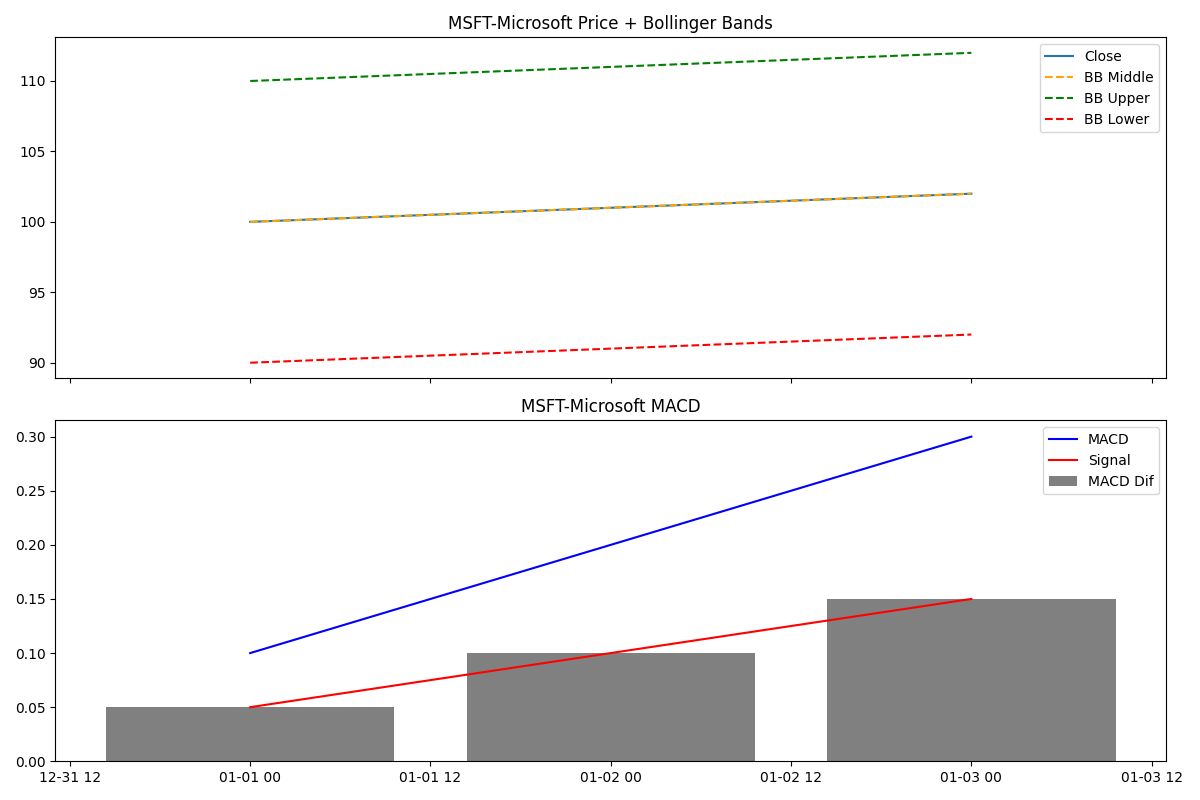
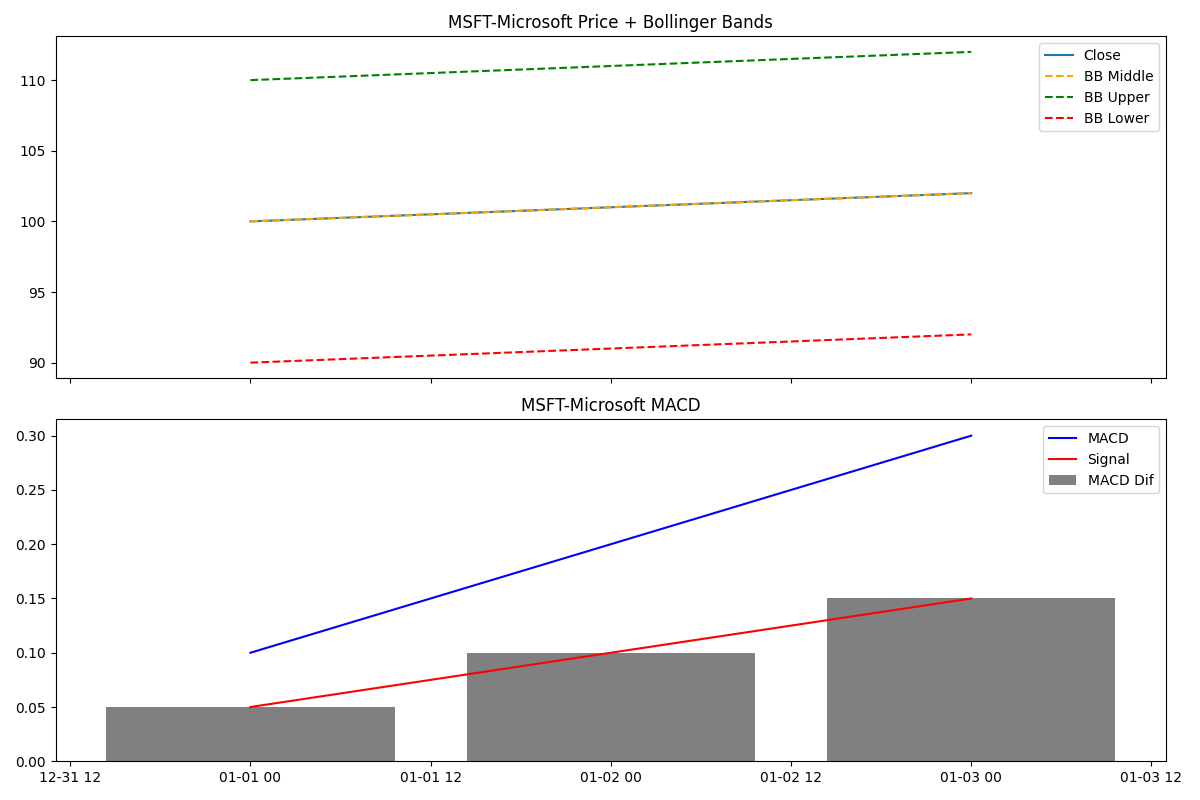
make lint

diff --git a/python/web/routes/actions.py b/python/web/routes/actions.py
@@ -1,10 +1,11 @@
 # python/web/routes/actions.py
 
-from fastapi import APIRouter, BackgroundTasks, HTTPException
+import asyncio
+import logging
 from datetime import datetime, timedelta
 from typing import Optional
-import logging
-import asyncio
+
+from fastapi import APIRouter, BackgroundTasks, HTTPException
 
 # 市場データ更新ロジックのインポート
 try:
@@ -15,13 +16,16 @@ except ImportError:
 router = APIRouter(prefix="/actions", tags=["actions"])
 logger = logging.getLogger(__name__)
 
+
 class ActionState:
     last_update_time: Optional[datetime] = None
     is_updating: bool = False
     is_analyzing: bool = False
 
+
 _state = ActionState()
 _UPDATE_COOLDOWN = timedelta(hours=1)
+
 
 async def _run_market_update():
     """
@@ -29,7 +33,7 @@ async def _run_market_update():
     """
     try:
         logger.info("Starting market data update task...")
-        
+
         if watch is None:
             raise ImportError("python.watch module could not be imported.")
 
@@ -39,12 +43,14 @@ async def _run_market_update():
         await loop.run_in_executor(None, watch.main)
 
         logger.info("Market data update task completed successfully.")
-        
+
     except Exception as e:
         logger.error(f"Error during market data update: {e}", exc_info=True)
     finally:
+
         # 成功・失敗に関わらず、必ずフラグを下ろす
         _state.is_updating = False
+
 
 @router.post("/update-market-data")
 async def trigger_market_update(background_tasks: BackgroundTasks):
@@ -52,7 +58,7 @@ async def trigger_market_update(background_tasks: BackgroundTasks):
     市場データ更新を手動トリガーするエンドポイント
     """
     now = datetime.now()
-    
+
     # 実行中チェック
     if _state.is_updating:
         raise HTTPException(status_code=409, detail="Update already in progress")
@@ -63,22 +69,23 @@ async def trigger_market_update(background_tasks: BackgroundTasks):
         if elapsed < _UPDATE_COOLDOWN:
             remaining_minutes = int((_UPDATE_COOLDOWN - elapsed).total_seconds() / 60)
             raise HTTPException(
-                status_code=429, 
-                detail=f"Update limit reached. Please wait {remaining_minutes} minutes."
+                status_code=429,
+                detail=f"Update limit reached. Please wait {remaining_minutes} minutes.",
             )
 
     # 状態更新
     _state.is_updating = True
     _state.last_update_time = now
-    
+
     # バックグラウンドタスクの登録
     background_tasks.add_task(_run_market_update)
-    
+
     return {
         "status": "accepted",
         "message": "Market data update started in background.",
-        "timestamp": now.isoformat()
+        "timestamp": now.isoformat(),
     }
+
 
 @router.get("/status")
 async def get_action_status():
@@ -88,5 +95,14 @@ async def get_action_status():
     return {
         "is_updating": _state.is_updating,
         "last_update_time": _state.last_update_time,
-        "cooldown_remaining_seconds": max(0, (_UPDATE_COOLDOWN - (datetime.now() - _state.last_update_time)).total_seconds()) if _state.last_update_time else 0
+        "cooldown_remaining_seconds": (
+            max(
+                0,
+                (
+                    _UPDATE_COOLDOWN - (datetime.now() - _state.last_update_time)
+                ).total_seconds(),
+            )
+            if _state.last_update_time
+            else 0
+        ),
     }

diff --git a/python/utils/send_slack_message.py b/python/utils/send_slack_message.py
@@ -26,7 +26,9 @@ class Slack:
             self.token = get_secret("SLACK_BOT_TOKEN")
 
         if not self.token:
-            logger.warning("Slack token could not be found in args, env vars, or Secret Manager.")
+            logger.warning(
+                "Slack token could not be found in args, env vars, or Secret Manager."
+            )
 
     def send_message_to_slack(self, channel_id, message: str):
         """

diff --git a/python/utils/secret_manager.py b/python/utils/secret_manager.py
@@ -3,9 +3,11 @@ from typing import Optional
 
 try:
     from google.cloud import secretmanager
+
     SECRET_MANAGER_AVAILABLE = True
 except ImportError:
     SECRET_MANAGER_AVAILABLE = False
+
 
 def get_secret(secret_id: str, version_id: str = "latest") -> Optional[str]:
     """
